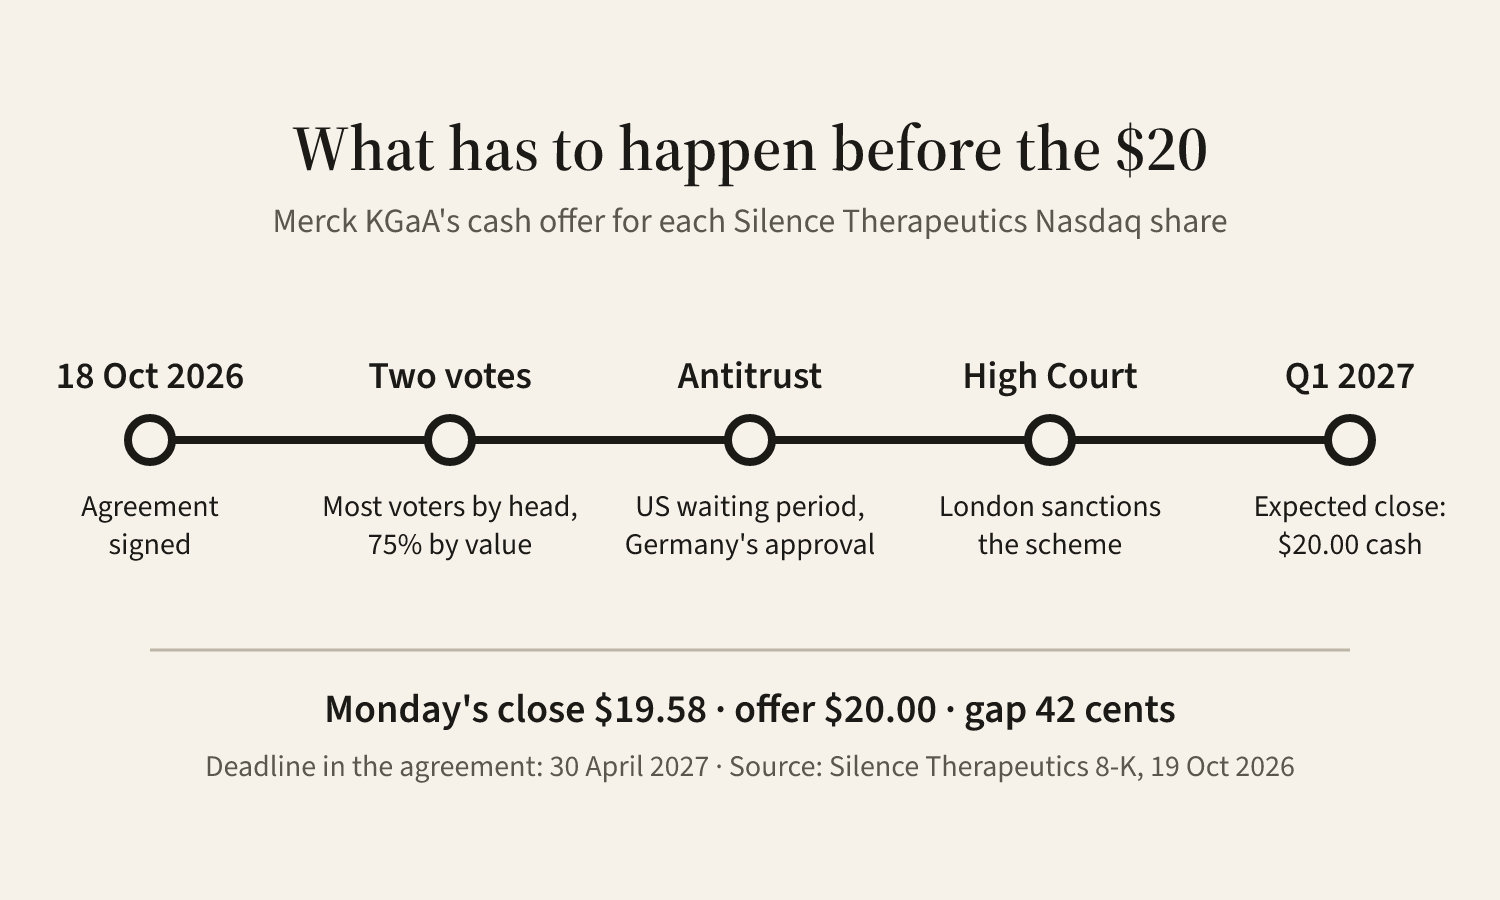
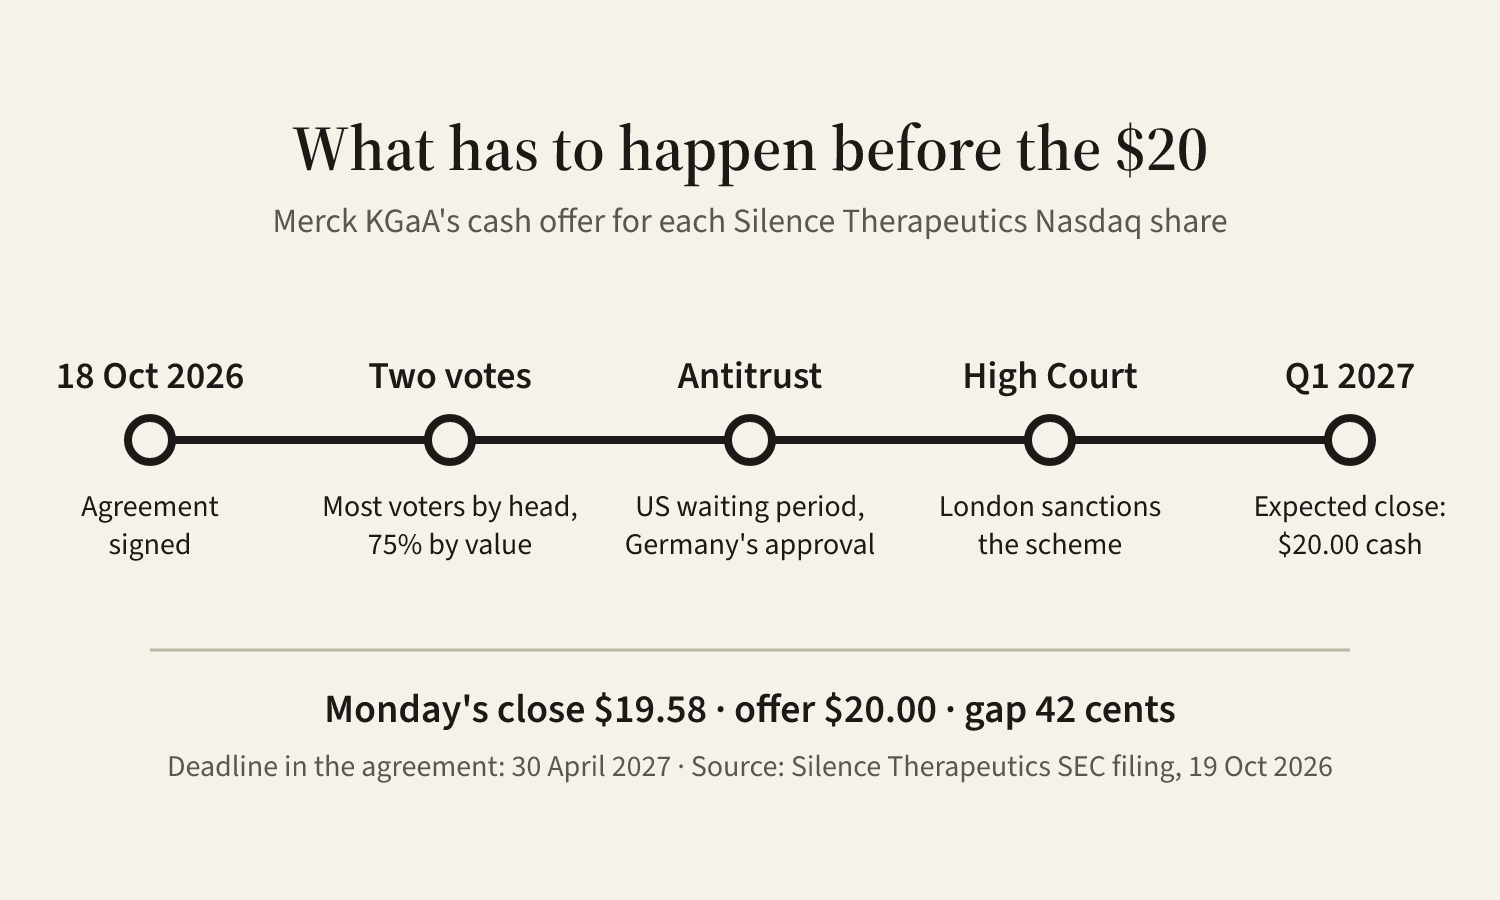
blog: keep "8-K" off the Silence post's first screen
The caption, the picture's source line and the sources list now say "SEC filing". The body explains Form 8-K once where the filing first comes up and says "the filing" after (founder, in chat; stock-analyst-platform#4279).

Changed region(s): [[0.092, 0.84, 0.8893, 0.8711]]

diff --git a/src/content/blog/silence-therapeutics-merck-spread.md b/src/content/blog/silence-therapeutics-merck-spread.md
@@ -12,10 +12,10 @@ figure:
   note: "between Monday's close and Merck KGaA's $20 cash offer"
 image:
   src: "/blog-images/silence-therapeutics-merck-spread.png"
-  alt: "What the 8-K says must happen before the $20, step by step"
-  source: "Silence Therapeutics 8-K, 19 Oct 2026"
+  alt: "What has to happen before the $20, step by step"
+  source: "Silence Therapeutics SEC filing, 19 Oct 2026"
   licence: "Own chart"
-sources: "Silence Therapeutics 8-K | https://www.sec.gov/Archives/edgar/data/1479615/000119312526424695/d172259d8k.htm; Transaction agreement | https://www.sec.gov/Archives/edgar/data/1479615/000119312526424695/d172259dex21.htm; US Treasury bill rates; Stock Analysis | https://stockanalysis.com/stocks/sln/history/; Takeover Code Rule 21.2 | https://code.thetakeoverpanel.org.uk/tp/rules/rule-21/rule-21-2.html"
+sources: "Silence Therapeutics SEC filing | https://www.sec.gov/Archives/edgar/data/1479615/000119312526424695/d172259d8k.htm; Transaction agreement | https://www.sec.gov/Archives/edgar/data/1479615/000119312526424695/d172259dex21.htm; US Treasury bill rates; Stock Analysis | https://stockanalysis.com/stocks/sln/history/; Takeover Code Rule 21.2 | https://code.thetakeoverpanel.org.uk/tp/rules/rule-21/rule-21-2.html"
 ---
 
 Silence Therapeutics closed Monday at $19.58, 42 cents under the $20.00 in cash that Merck KGaA, the German drug group, has agreed to pay for each Silence share listed on Nasdaq. The same $19.58 put in a six-month Treasury bill would earn about 38 cents by the end of March. That leaves about 4 cents for the risk that the deal breaks, so the price treats it as close to done. The company's own filing lists what still has to happen first.
@@ -51,13 +51,13 @@ If the deal broke, the price could fall back toward Friday's close of $8.68, whi
 
 ## 3. What the filing says still has to happen
 
-Silence filed the deal on Form 8-K on 19 October, with the full transaction agreement attached. The 8-K lists eight conditions. The first is the vote:
+Silence filed the deal with the SEC on 19 October, on a Form 8-K. That is the short report a US-listed company files when something major happens, and this one has the full transaction agreement attached. The filing lists eight conditions. The first is the vote:
 
 > approval by the Company's shareholders of the Scheme of Arrangement by a majority in number representing not less than three-fourths (75%) in value of the members [...] present and voting
 
 Silence is a company of England and Wales, so it is being bought through a scheme of arrangement. That is a procedure under the UK Companies Act. Shareholders vote on it, a court sanctions it, and from then on it binds every holder, including those who voted against. The vote has two tests. Most of the holders who vote, counted by head, must approve. Those approving must also hold at least 75% of the shares voted. A second meeting must then pass a special resolution, which also needs 75% of the votes cast.
 
-The other seven, in the 8-K's order:
+The other seven, in the filing's order:
 
 2. The US antitrust waiting period ends, and the deal is cleared under German antitrust law.
 3. Each side has kept its promises under the agreement.
@@ -67,7 +67,7 @@ The other seven, in the 8-K's order:
 7. Each side delivers its closing papers.
 8. Nothing happens to Silence that counts as a "Company material adverse effect."
 
-Holders of about 14% of the votes have signed agreements to vote yes. The 8-K also says: "The consummation of the Transaction is not subject to any financing condition."
+Holders of about 14% of the votes have signed agreements to vote yes. The filing also says: "The consummation of the Transaction is not subject to any financing condition."
 
 Each Silence share on Nasdaq is an American depositary share. A bank holds three ordinary Silence shares behind each one. The agreement pays $6.6667 for each ordinary share, which is where the $20.00 comes from.
 
